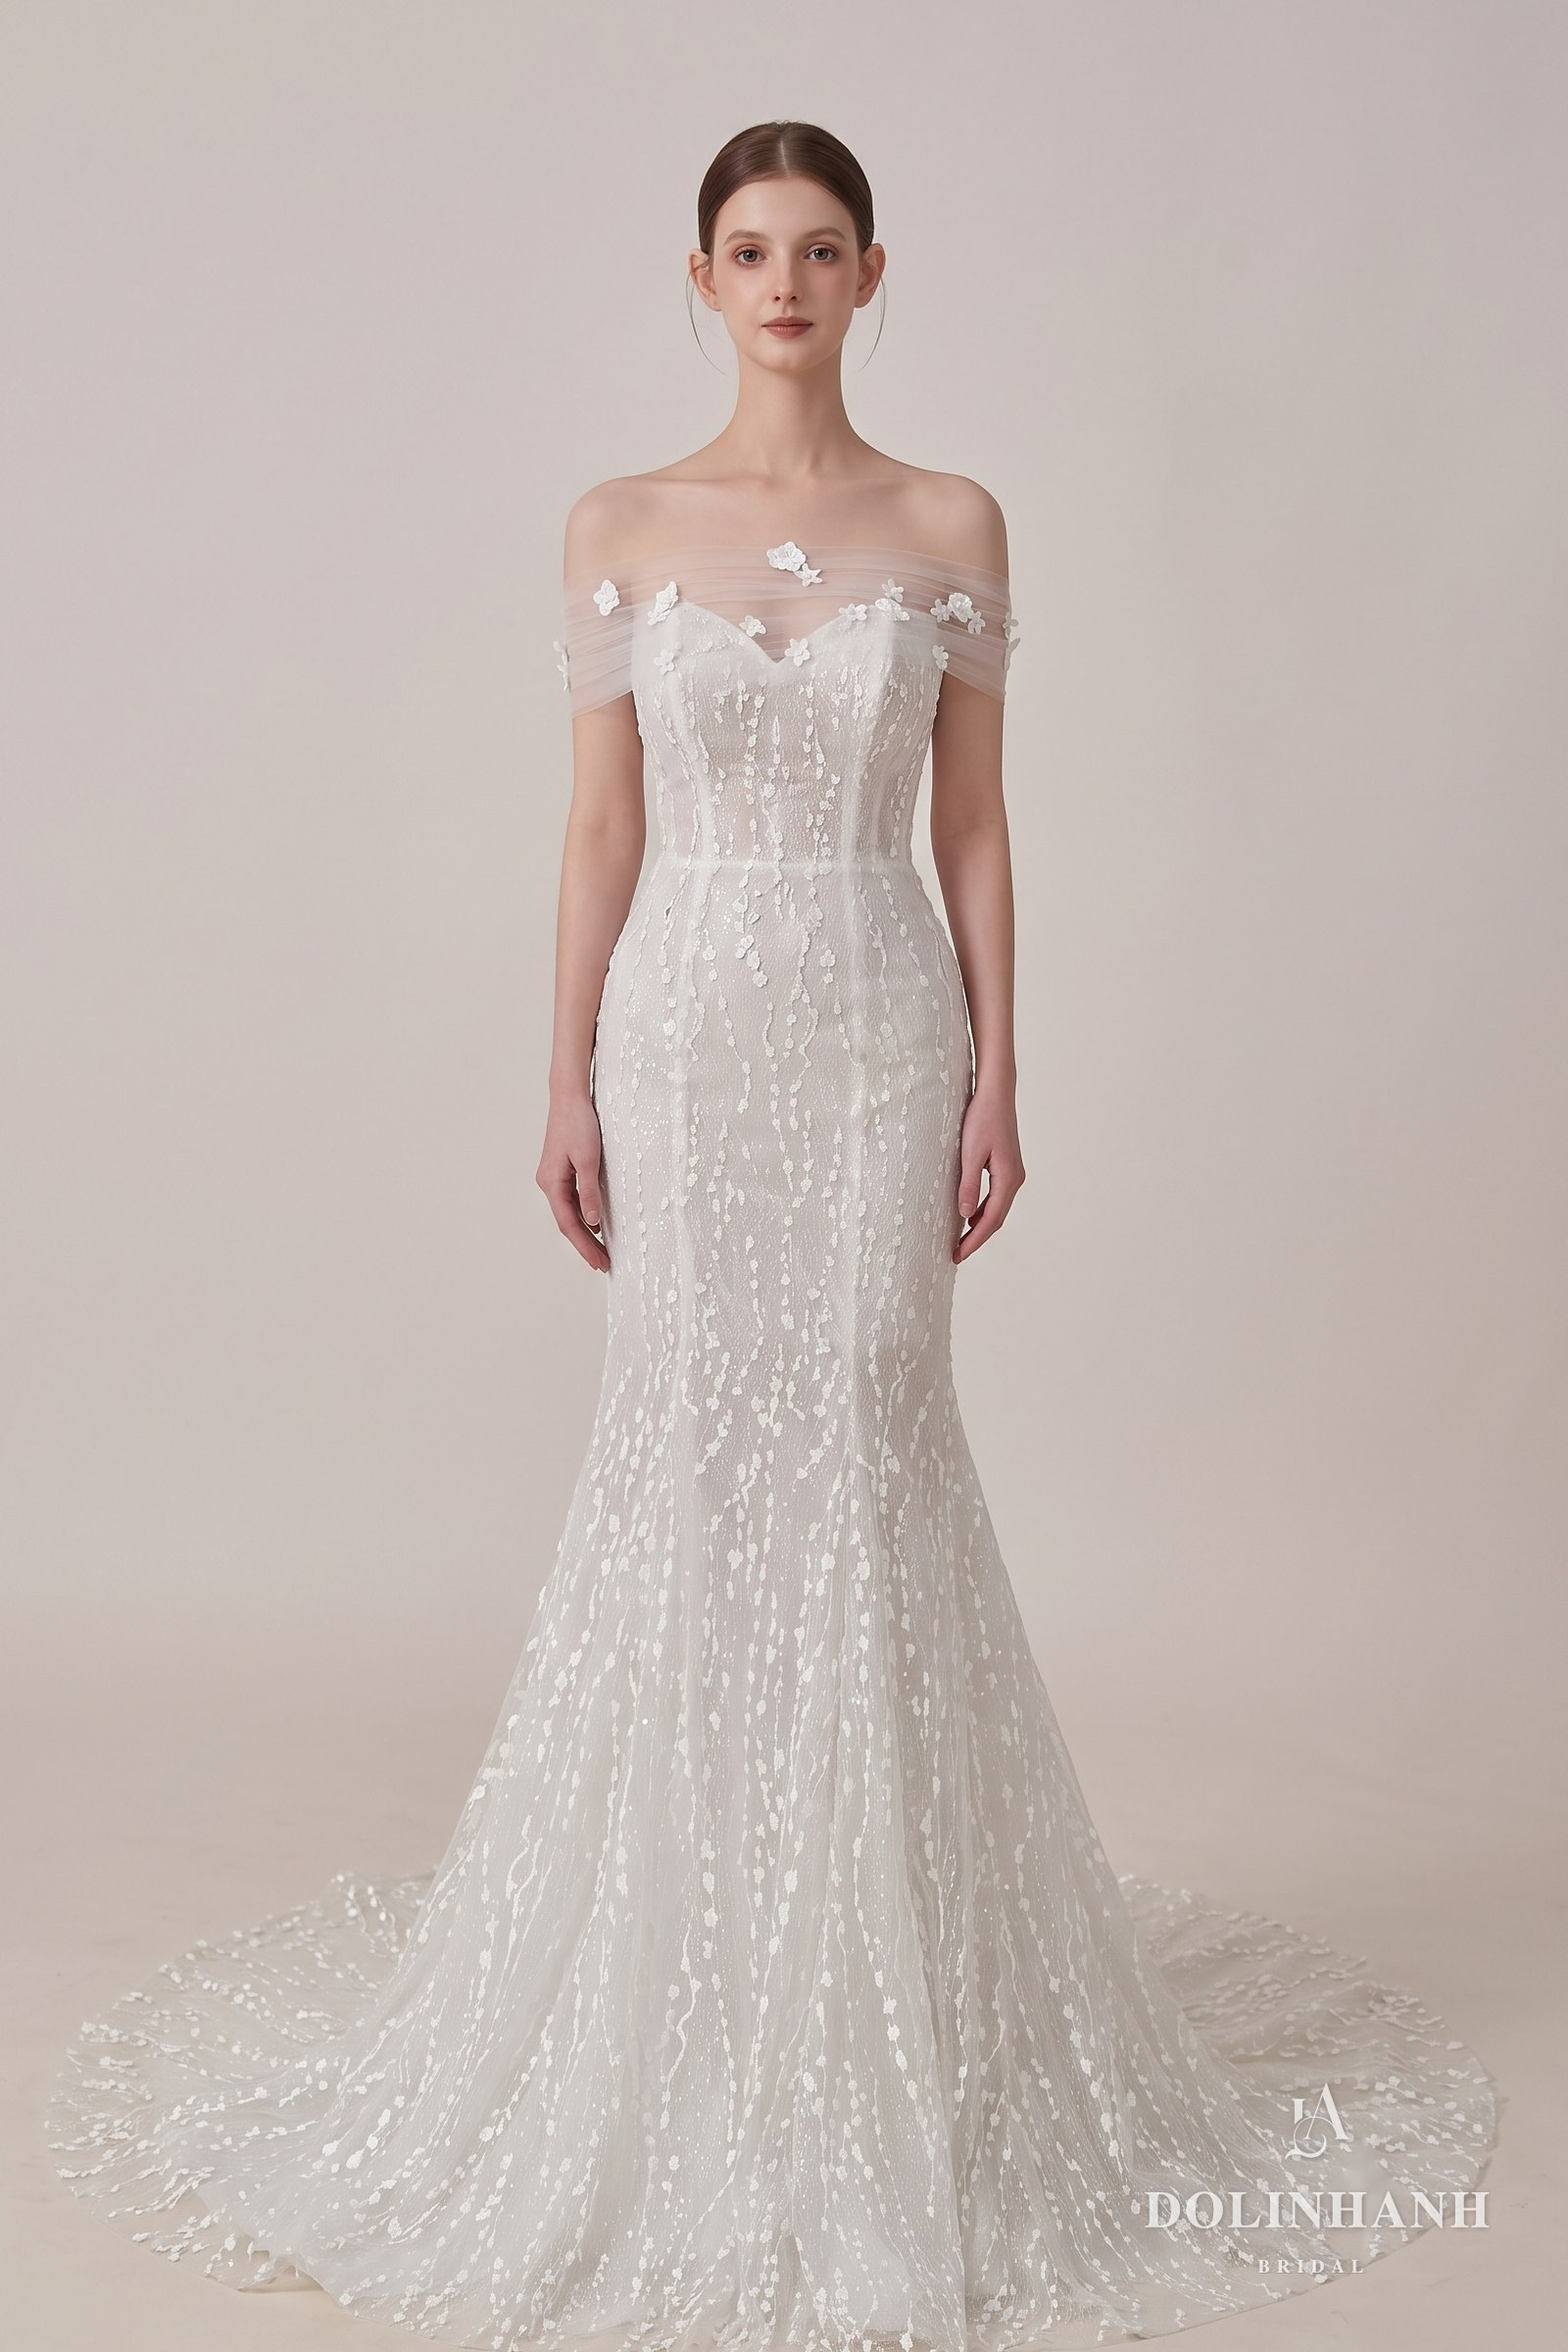
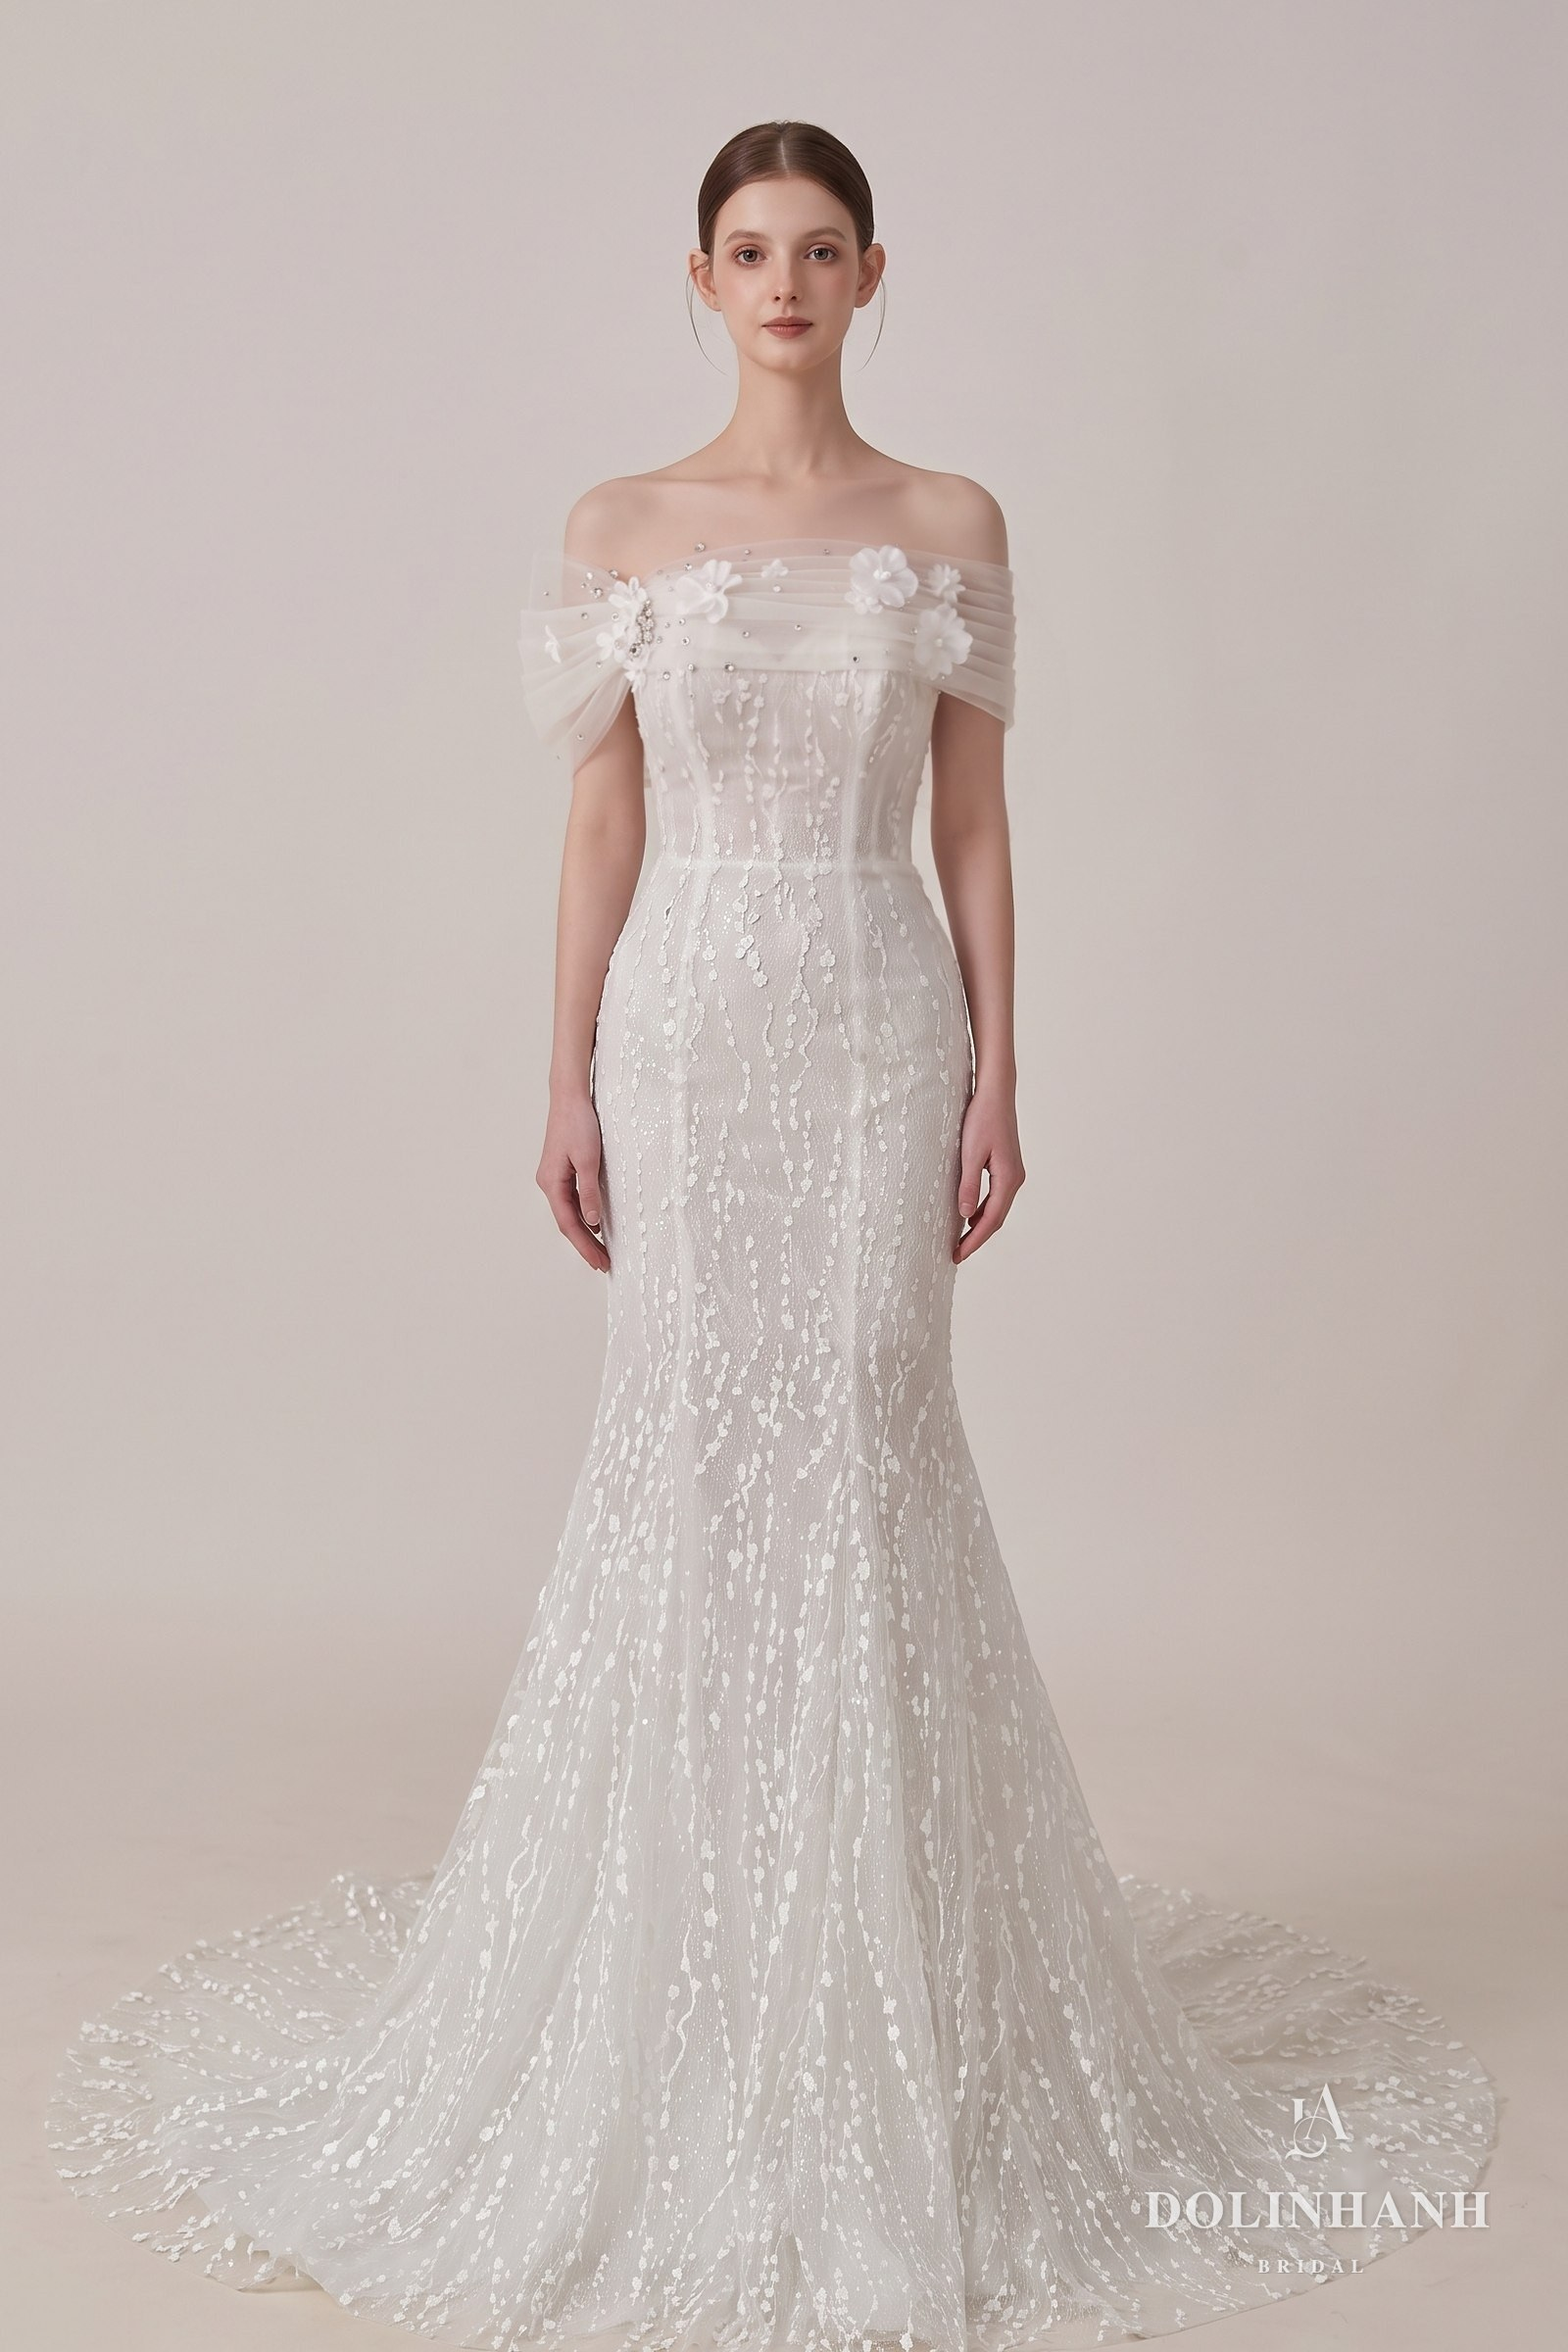
MS 511 vẽ lại phần vai theo váy thật (V139, chị Linh duyệt 18/10)

Changed region(s): [[0.375, 0.2188, 0.6562, 0.3438]]

diff --git a/bo-suu-tap.html b/bo-suu-tap.html
@@ -3415,7 +3415,7 @@ src="https://www.facebook.com/tr?id=1358640082651240&ev=PageView&noscript=1"
         </figure>
         <figure data-dang="mermaid" data-mood="romantic" data-coso="hn">
           <div class="sl-khung">
-            <div class="sl" data-img="anh/vay/ms511/01.jpg?v=1"></div>
+            <div class="sl" data-img="anh/vay/ms511/01.jpg?v=2"></div>
           </div>
           <figcaption><span class="kind" data-en="Dolinhanh Bridal" data-zh="Dolinhanh Bridal">Dolinhanh Bridal</span><span class="nm">MS 511</span><span class="de" data-en="Tulle off-shoulder floral mermaid" data-zh="薄纱一字肩花朵鱼尾婚纱">Trễ vai voan hoa, đuôi cá ren lá</span><span class="gia">US$1,080</span></figcaption>
         </figure>
